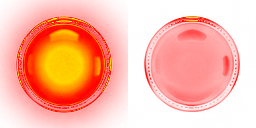
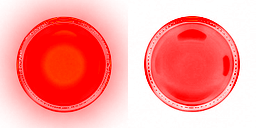
The side notes in vivid colours: a hot pink and a deep orange, carrying their colour as the key notes do
The user found both side styles too pale. The side lanes' default colours are now saturated, as DJMAX's
side tracks are (left #b07bff → #ff2e9a, right #ff8f4f → #ff6a12, the UI's too), and the notes carry
more of them: the tap's see-through middle 0.8 of the colour (was 0.55), the long note's body 0.5 (was
0.26), a dim LED 0.75 (was 0.42), the bright bands and lit LEDs the colour itself rather than lifted
toward white. Both the pictures (build_side_notes.py: GAIN) and the code's stand-ins. The key notes are
drawn over them and read as before. The side-note e2e finds the left bar by its new pink.

Claude-Session: https://claude.ai/code/session_01NJ81BvRyuQ14bK4oW4y2fo

diff --git a/client/src/render/tintArt.ts b/client/src/render/tintArt.ts
@@ -1759,12 +1759,14 @@ export function sideTap(edge: number): Paint {
     g.save();
     roundRect(g, 0, 0, w, h, h * 0.15);
     g.clip();
-    g.fillStyle = ink(1, 0, 0.55);
+    // as strong as the key notes' colours (the user's, 2026-11-17: the side notes were too pale): the middle 0.8 of
+    // the colour, the bands the colour itself
+    g.fillStyle = ink(1, 0, 0.8);
     g.fillRect(0, 0, w, h);
-    g.fillStyle = ink(1, 0.3);
+    g.fillStyle = ink(1, 0.1);
     g.fillRect(0, 0, w, band);
     g.fillRect(0, h - band, w, band);
-    g.fillStyle = ink(1, 0.2, 0.9);
+    g.fillStyle = ink(1, 0.1);
     g.fillRect(0, 0, side, h);
     g.fillRect(w - side, 0, side, h);
     g.restore();
@@ -1780,15 +1782,15 @@ export const SIDE_PICTURES: Record<Exclude<SidePart, 'tap'>, Paint> = {
   // fainter than a tap, bright down its sides
   body: (g, w, h) => {
     const side = Math.max(2, Math.round(w * 0.008));
-    g.fillStyle = ink(1, 0, 0.26);
+    g.fillStyle = ink(1, 0, 0.5);
     g.fillRect(0, 0, w, h);
-    g.fillStyle = ink(1, 0.2, 0.9);
+    g.fillStyle = ink(1, 0.1);
     g.fillRect(0, 0, side, h);
     g.fillRect(w - side, 0, side, h);
   },
   // a bright band where it starts and where it ends
   end: (g, w, h) => {
-    g.fillStyle = ink(1, 0.3);
+    g.fillStyle = ink(1, 0.1);
     g.fillRect(0, 0, w, h);
   },
   // light across the half: a white-hot core on the judge line (SIDE_FLASH_LINE down) in a bright bar,
@@ -1869,7 +1871,7 @@ function dotRow(g: CanvasRenderingContext2D, w: number, cols: number, y: number,
  * LED dots drawn from a picture (media/side/dots.png, made with the image model: styleArt's ART_SIDES): a lit one and a
  * dim one, `size` px square each side by side, the lens `lens` of the cell's half from its middle; `lit` true for the
  * bright rows (a note's time), the dim one for the rest, `alpha` how much of it (the code's dots' alphas, for the dim
- * one as a share of its own 0.42).
+ * one as a share of its own 0.75).
  */
 export interface LedSprites {
   image: CanvasImageSource;
@@ -1924,10 +1926,10 @@ export function sideDotsTap(edge: number, cols: number, led?: LedSprites): Paint
     g.fillStyle = ink(0, 0, 0.3);
     roundRect(g, 0, 0, w, h, h * 0.15);
     g.fill();
-    for (const y of [band / 2, h - band / 2]) dotRow(g, w, cols, y, ink(1, 0.45), 0.3, band, ledDot(led, true));
+    for (const y of [band / 2, h - band / 2]) dotRow(g, w, cols, y, ink(1, 0.15), 0.3, band, ledDot(led, true));
     const inner = h - band;
     const n = Math.max(0, Math.round(inner / pitch) - 1);
-    for (let i = 1; i <= n; i++) dotRow(g, w, cols, band / 2 + (inner * i) / (n + 1), ink(1, 0, 0.6), 0.3, inner / (n + 1), ledDot(led, false, 0.6 / 0.42));
+    for (let i = 1; i <= n; i++) dotRow(g, w, cols, band / 2 + (inner * i) / (n + 1), ink(1, 0, 0.9), 0.3, inner / (n + 1), ledDot(led, false, 0.9 / 0.75));
   };
 }
 
@@ -1935,13 +1937,13 @@ export function sideDotsTap(edge: number, cols: number, led?: LedSprites): Paint
 export function sideDotsBody(cols: number, led?: LedSprites): Paint {
   return (g, w, h) => {
     const rows = Math.max(1, Math.round(h / ((w / cols) * NOTE_STRETCH)));
-    for (let i = 0; i < rows; i++) dotRow(g, w, cols, ((i + 0.5) * h) / rows, ink(1, 0, 0.42), 0.3, h / rows, ledDot(led, false));
+    for (let i = 0; i < rows; i++) dotRow(g, w, cols, ((i + 0.5) * h) / rows, ink(1, 0, 0.75), 0.3, h / rows, ledDot(led, false));
   };
 }
 
 /** Its head and end over the keys as dots: one bright row. */
 export function sideDotsEnd(cols: number, led?: LedSprites): Paint {
-  return (g, w, h) => dotRow(g, w, cols, h / 2, ink(1, 0.45), 0.3, h, ledDot(led, true));
+  return (g, w, h) => dotRow(g, w, cols, h / 2, ink(1, 0.15), 0.3, h, ledDot(led, true));
 }
 
 // ---------- hit effects: flipbooks drawn here, lying flat on the track at the judge line ----------

diff --git a/client/e2e/phase3.spec.ts b/client/e2e/phase3.spec.ts
@@ -47,7 +47,7 @@ async function readoutsInPlace(page: Page): Promise<void> {
 }
 
 /**
- * The widest run of FXL's colour (the default palette's purple) along a row of the play's track
+ * The widest run of FXL's colour (the default palette's hot pink) along a row of the play's track
  * above the judge line, and its middle, as shares of the screen's width: a side note in a lane of
  * its own is a narrow one at the track's edge; laid over the keys, a bar across their left half.
  */
@@ -68,7 +68,7 @@ async function sideBar(page: Page): Promise<{ width: number; middle: number }> {
       for (let x = 0; x < width; x++) {
         const i = (y * width + x) * 4;
         const [r, gr, b] = [px[i], px[i + 1], px[i + 2]];
-        run = b > 120 && b - r > 25 && r - gr > 15 ? run + 1 : 0;
+        run = r > 150 && r - gr > 70 && b - gr > 30 ? run + 1 : 0;
         if (run / width > widest.width) Object.assign(widest, { width: run / width, middle: (x - run / 2) / width });
       }
     }

diff --git a/client/src/render/palette.ts b/client/src/render/palette.ts
@@ -6,8 +6,10 @@ export const LANE_COLORS: Record<LaneColor, number> = {
   blue: 0x4fc3ff,
   gold: 0xffc94f,
   scratch: 0xff5c8a,
-  sideL: 0xb07bff,
-  sideR: 0xff8f4f,
+  // the side lanes' colours vivid, as DJMAX's side tracks are (the user's, 2026-11-17: the lavender and the pale
+  // orange were too faint): a hot pink on the left, a deep orange on the right
+  sideL: 0xff2e9a,
+  sideR: 0xff6a12,
 };
 
 /** Hit-effect colour per grade class (matches the grades' CSS variables). */

diff --git a/client/src/styles.css b/client/src/styles.css
@@ -175,8 +175,8 @@
   --lane-blue: #4fc3ff;
   --lane-gold: #ffc94f;
   --lane-scratch: #ff5c8a;
-  --lane-sideL: #b07bff;
-  --lane-sideR: #ff8f4f;
+  --lane-sideL: #ff2e9a;
+  --lane-sideR: #ff6a12;
   --stem-drums: #8fa3c8;
   --stem-bass: #ff9a6b;
   --stem-vocals: #ffb3c7;

diff --git a/scripts/assets/build_side_notes.py b/scripts/assets/build_side_notes.py
@@ -8,8 +8,8 @@ are kept):
   game lays them out in rows, as many as the key lanes take).
 
 The pictures are light on black for a lane 0.72 grey (the references were drawn so): each is turned back into a tint
-picture of the lane's colour, its alpha how much shows (a value of 0.72 all of it) and its brighter parts lifted
-toward white. Each part is first brought to the reference's brightness (its median over the same part), so what was
+picture of the lane's colour, its alpha how much shows (a value of 0.72 all of it, times the part's GAIN) and its
+hottest cores lifted a little toward white. Each part is first brought to the reference's brightness (its median over the same part), so what was
 see-through in the code stays as see-through: the key notes under a side note must read.
 
     python scripts/assets/build_side_notes.py [bar|dots ...]
@@ -34,10 +34,20 @@ BAR_TAP, BAR_BODY, BAR_END = (0, 176), (192, 128), (336, 64)
 DOT, DOT_R = 128, 48
 
 
-def tint(v: np.ndarray) -> np.ndarray:
-    """Light on black for a lane LANE grey → a tint picture: the colour at alpha v / LANE, lifted toward white above it."""
-    a = np.clip(v / LANE, 0, 1)
-    g = np.clip((v - LANE) / (1 - LANE), 0, 1)
+#: how much more of the lane's colour each part carries than the code's first drawing did (the user's, 2026-11-17: the
+#: side notes were too pale, "기본 노트 색깔들 처럼 눈에 잘 띄는 색"): the tap's see-through middle about 0.8 of the
+#: colour (was 0.55), the long note's body 0.5 (was 0.26), a dim LED 0.75 (was 0.42); the bright parts the colour
+#: itself, only their hottest cores a little toward white
+GAIN = {"tap": 1.45, "body": 1.9, "end": 1.0, "lit": 1.0, "dim": 1.8}
+#: from what value a part is lifted toward white, and at most how far
+HOT, WHITE = 0.88, 0.35
+
+
+def tint(v: np.ndarray, gain: float = 1.0) -> np.ndarray:
+    """Light on black for a lane LANE grey → a tint picture: the colour at alpha gain × v / LANE, its hottest cores
+    lifted a little toward white."""
+    a = np.clip(gain * v / LANE, 0, 1)
+    g = np.clip((v - HOT) / (1 - HOT), 0, 1) * WHITE
     return np.stack([np.where(a > 0, 1.0, 0.0), g, np.zeros_like(v), a], axis=2).astype(np.float32)
 
 
@@ -65,16 +75,16 @@ def build_bar() -> dict:
     atlas = np.zeros((512, 1024, 4), np.float32)
     # the tap, whole
     tap = matched(v[ty, tx], r[rty, rtx])
-    paste(atlas, tint(resize(tap, 1024, BAR_TAP[1])), 0, BAR_TAP[0])
+    paste(atlas, tint(resize(tap, 1024, BAR_TAP[1]), GAIN["tap"]), 0, BAR_TAP[0])
     # the long note: its end band (its top, as deep as the reference's), and a stretch of its body's middle
     long, ref = v[ly, lx], r[rly, rlx]
     band = max(4, int(np.flatnonzero(ref[:, ref.shape[1] // 2] < ref[2, ref.shape[1] // 2] * 0.7)[0] * long.shape[1] / ref.shape[1]))
-    paste(atlas, tint(resize(long[:band], 1024, BAR_END[1])), 0, BAR_END[0])
+    paste(atlas, tint(resize(long[:band], 1024, BAR_END[1]), GAIN["end"]), 0, BAR_END[0])
     h = long.shape[0]
     body = matched(long[int(h * 0.4): int(h * 0.6)], ref[int(ref.shape[0] * 0.4): int(ref.shape[0] * 0.6)])
     # alike all along: each column its mean down the stretch (the body repeats; a sheen across it would step)
     body = np.repeat(body.mean(axis=0, keepdims=True), 8, axis=0)
-    paste(atlas, tint(resize(body, 1024, BAR_BODY[1])), 0, BAR_BODY[0])
+    paste(atlas, tint(resize(body, 1024, BAR_BODY[1]), GAIN["body"]), 0, BAR_BODY[0])
     save_rgba(atlas, MEDIA / "side" / "bar.png")
     return {"side/bar": {"file": "side/bar.png", "bundle": "notes", "size": [1024, 512]}}
 
@@ -95,7 +105,7 @@ def build_dots() -> dict:
         cell = v[cy - half: cy + half, cx - half: cx + half]
         disk = (np.hypot(*np.mgrid[-half:half, -half:half]) < rad * 0.8)
         cell = cell * (float(r[cy - half: cy + half, cx - half: cx + half][disk].mean()) / max(1e-3, float(cell[disk].mean())))
-        paste(atlas, tint(resize(cell, DOT, DOT)), i * DOT, 0)
+        paste(atlas, tint(resize(cell, DOT, DOT), GAIN["lit" if i == 0 else "dim"]), i * DOT, 0)
     save_rgba(atlas, MEDIA / "side" / "dots.png")
     return {"side/dots": {"file": "side/dots.png", "bundle": "notes", "size": [2 * DOT, DOT]}}
 

diff --git a/docs/GEAR_NOTE_FX.md b/docs/GEAR_NOTE_FX.md
@@ -101,6 +101,7 @@
 - **그대로인 것:** 판정 때의 빛 띠(flash), 누르는 중 · 놓침의 표현(밝기 · 투명도), 레인 색으로 물드는 것.
 - **되돌리기:** `client/src/render/styleArt.ts`의 `ART_SIDES`에서 'bar' 또는 'dots'를 빼면 그 스타일은 코드 그림. 그림이 없거나 못 읽어도 코드 그림.
 - **GPU:** 화면 텍스처는 예전과 같은 크기(512 폭)로 시작할 때 한 번 그려 올리고, 드로 콜은 그대로입니다.
+- **더 진한 색 (2026-11-17, 사용자: "기본이랑 도트매트릭스 모두 너무 색이 옅어. 기본 노트 색깔들 처럼 눈에 잘 띄는 색으로 수정해줘. djmax 사이드노트 색도 참고해"):** 기본 레인 색을 DJMAX의 사이드 트랙처럼 채도 높게 바꿨습니다: 왼쪽 연보라 `#b07bff` → 진분홍 `#ff2e9a`, 오른쪽 연주황 `#ff8f4f` → 진주황 `#ff6a12`(`palette.ts`의 `LANE_COLORS`, 화면의 `--lane-sideL/R`). 노트가 레인 색을 더 많이 띱니다: 단노트의 비치는 가운데 0.55 → 0.8, 롱노트 몸통 0.26 → 0.5, 꺼진 LED 0.42 → 0.75, 밝은 띠와 켜진 LED는 흰색 쪽으로 올리지 않고 레인 색 그대로(가장 밝은 심만 조금). 그림(`build_side_notes.py`의 `GAIN`)과 코드 대역 모두. 건반 노트는 사이드 노트 위에 그려져 그대로 읽힙니다. 노트 색을 직접 고른 설정(프리셋)은 바뀌지 않습니다. 비교: `art/side-vivid-close-ups.jpg`, `art/side-vivid-play-bar.jpg` · `art/side-vivid-play-dots.jpg`(왼쪽 전 · 오른쪽 후).
 - **비교 그림:** `design-mockups/note-skins/art/side-close-ups.jpg`(판정선 근처: 단노트, 롱노트, 누르는 중, 놓침, 건반 노트와 겹친 장면), `side-play-bar.jpg` · `side-play-dots.jpg`(4K+FX · 6K+FX × SDVX · LOW · PLANE), `side-sent-and-made.jpg`(보낸 참고와 받은 그림). 모두 왼쪽 코드 · 오른쪽 그림.
 
 ## 타격 효과는 그림으로 그린 프레임 애니메이션 (2026-11-11)
@@ -747,7 +748,7 @@ Chromium의 추적(`contentTracing`)으로 래스터 작업 시간을, 페이지
 - 2026-11-16(코드 단노트 · 롱노트를 그림으로): `npx tsc --noEmit -p .` 통과, `npx vitest run` 60개 파일 575개 통과(새 테스트: 그림 단노트가 줄 · 조각대로 그려지는지와 그림이 없으면 코드인지, 그림 롱노트의 끝 깊이 · 타일, 로고 재질의 목록, 매니페스트의 크기). e2e `phase3` · `graphicsLost` 20개 중 18개, `hud` · `settings` · `transitions` 22개 중 21개 통과(스킨 플레이의 `data-art`가 'notes long gear hit'으로 바뀐 기대값들 포함; 실패 셋 `phase3.spec.ts:79 · 170` · `hud.spec.ts:152`는 위의 환경 실패).
 
 - 2026-11-17(설정 정리: 노트만 있던 노트 열 · 스킨 줄 · 긴 도움말 · 노트 색상 · 키 모드 탭): `npx tsc --noEmit -p .` 통과, `npx vitest run` 61개 파일 553개 통과(노트 · 스킨 줄 · 도움말 테스트를 고쳐 쓰고, 지운 노트 열을 가리키는 저장값이 기본 노트로 열리는지를 `skins.test.ts` · `settings.test.ts`에, 남은 노트가 열셋이고 지운 그림이 매니페스트에 없는지를 `tintArt.test.ts` · `styleArt.test.ts`에, 그래픽 호환 모드의 도움말이 어느 모드도 설명하지 않는지를 `graphicsMode.test.ts`에 추가). e2e(이 환경: 소프트웨어 GL, NVIDIA GPU 없음): `settings` · `graphicsMode` · `gamepad` · `phase2` · `input` 32개 중 22개, `phase3` 15개 중 13개 통과. 새로 쓴 것: 키 모드 탭(탭 일곱, 고른 모드의 키만 보임, ←→로 모드 · ↓로 레인, 두 탭이 같은 모드, 다른 탭을 고르면 기다리던 레인과 동시 입력 테스트가 닫힘), 도움말이 어느 기어를 골라도 같은 두 문장인지, 기어 탭의 첫 줄이 기어인지, 지운 노트를 가리키는 저장값이 기본 노트로 열리는지, 부위를 하나씩 골라 플레이한 `data-style`. 실패 12개는 이번 변경 전에도 같습니다: `gamepad.spec.ts` 228 · 282 · 310 · 355, `input.spec.ts` 81 · 157 · 246 · 302 · 600, `phase2.spec.ts` 44의 열은 브랜치를 시작한 커밋(297c7b4)의 작업 사본에서 같은 세 파일을 돌려 같은 열이 같은 자리에서 실패하는 것을 확인했고(선곡 화면을 새로 만든 뒤 낡은 단계, 그리고 이 환경에서는 채보를 만들 수 없어 플레이가 시작되지 않음), `phase3.spec.ts` 79 · 170은 위의 환경 실패입니다. 한 작업 사본에서 e2e 둘을 함께 돌리면 서버 데이터 폴더(`client/test-results/e2e-data`, 서버가 뜰 때 지움)를 같이 써서 서로의 곡이 사라집니다: 이번에는 실행마다 데이터 · 출력 폴더를 따로 둔 설정으로 돌렸습니다. 화면: 데스크톱 앱(저장소의 Electron, 1920×1080)에서 기어 · 노트 · 키 설정(4K, 7K+1S) · 게임패드 탭을 찍어 확인했고, 문서의 설정 스크린샷 넷(10 · 11 · 26 · 27)과 지운 노트가 나오던 플레이 스크린샷 열(05 · 19 · 22–25, 28–31은 타격 효과 사진으로 이름을 바꿈)을 다시 찍었습니다(42 · 43은 지움). 이 환경에서는 채보를 만들 수 없어 플레이 스크린샷은 테스트가 직접 넣은 합성 채보로 찍습니다(`screenshots.spec.ts`의 `serveShowcase`: 채보 생성기가 준비된 PC에서는 아무것도 하지 않음).
-- 2026-11-17(사이드 노트를 그림으로): `npx tsc --noEmit -p .` 통과, `npx vitest run` 557개 통과(새 테스트: 사이드 그림의 매니페스트 크기와 스타일마다 불러오기, bar의 부분별 그리기와 그림이 없을 때 코드, LED 점이 코드와 같은 줄에 켜진 · 꺼진 그림으로 놓이는지). e2e `phase3` · `graphicsLost` · `settings` 29개 중 27개 통과(실패 둘 `phase3.spec.ts:79 · 170`은 위의 환경 실패).
+- 2026-11-17(사이드 노트를 그림으로): `npx tsc --noEmit -p .` 통과, `npx vitest run` 557개 통과(새 테스트: 사이드 그림의 매니페스트 크기와 스타일마다 불러오기, bar의 부분별 그리기와 그림이 없을 때 코드, LED 점이 코드와 같은 줄에 켜진 · 꺼진 그림으로 놓이는지). e2e `phase3` · `graphicsLost` · `settings` 29개 중 27개 통과(실패 둘 `phase3.spec.ts:79 · 170`은 위의 환경 실패). 색을 진하게 한 뒤: `phase3` · `settings` 25개 중 23개 통과(같은 환경 실패 둘), 사이드 노트 테스트(`phase3.spec.ts:288`)는 화면에서 왼쪽 사이드 바를 그 색으로 찾으므로 보라 → 진분홍으로 고침.
 
 ## 남은 것
 
